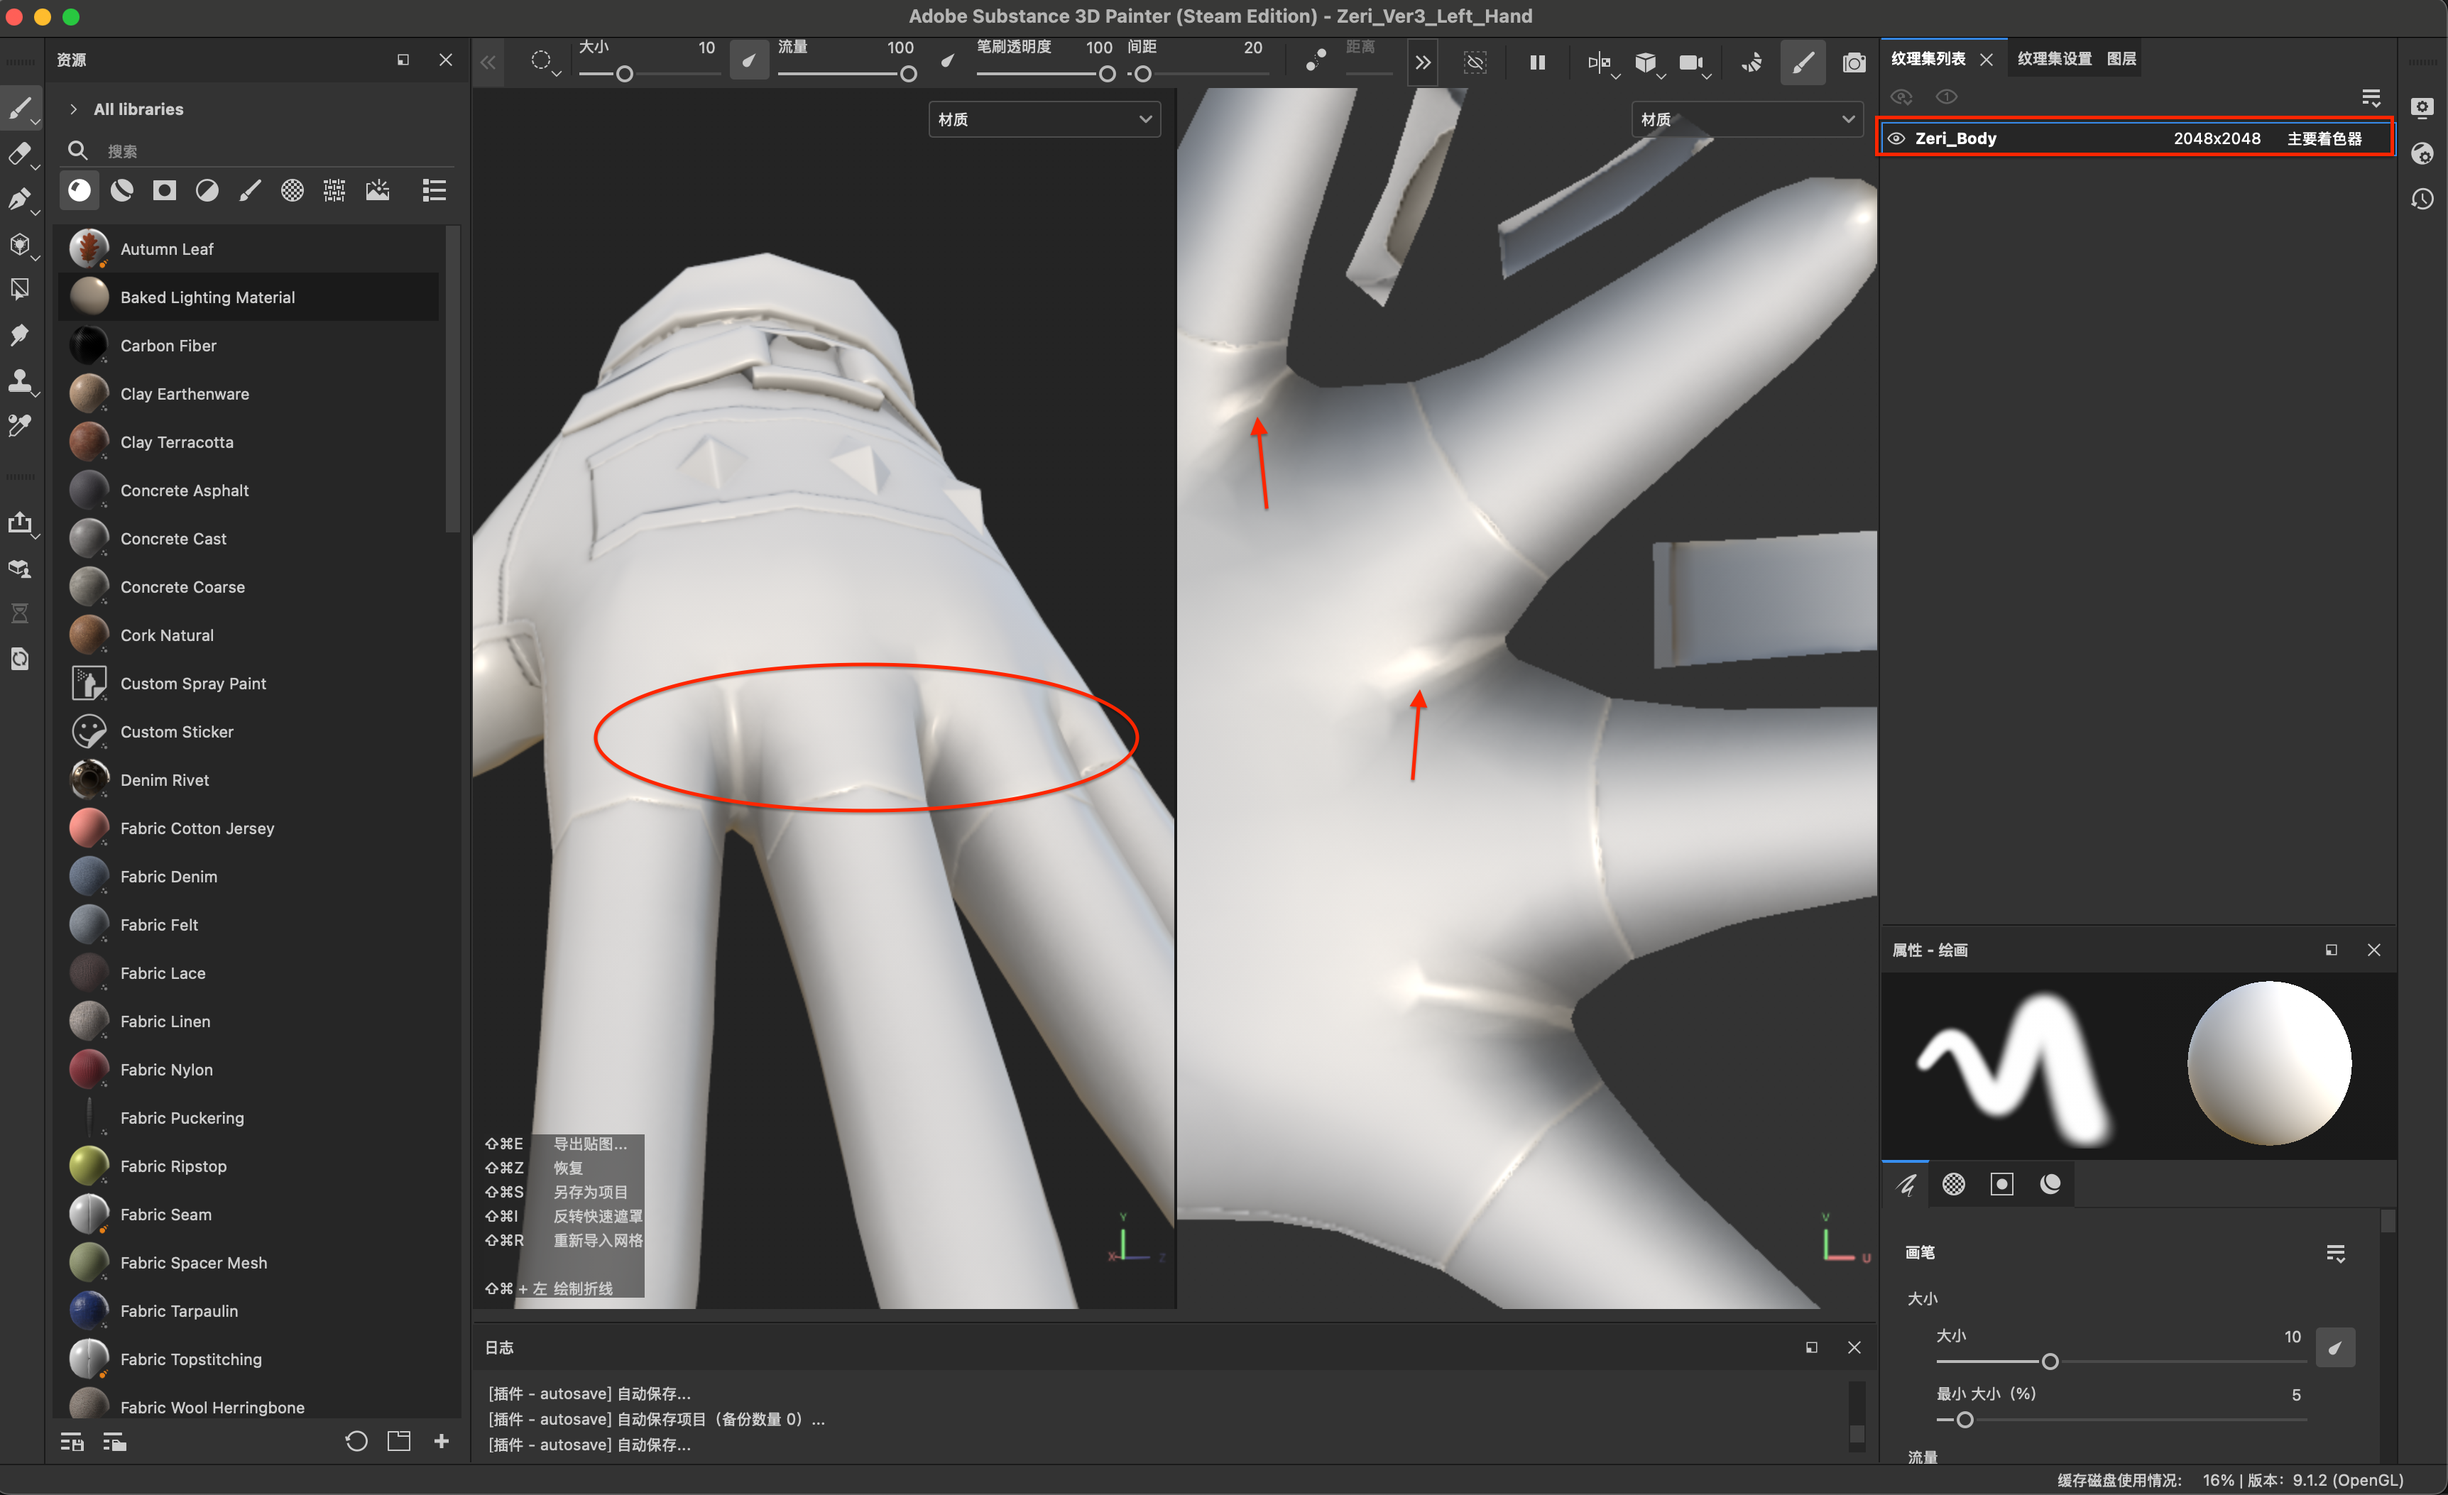
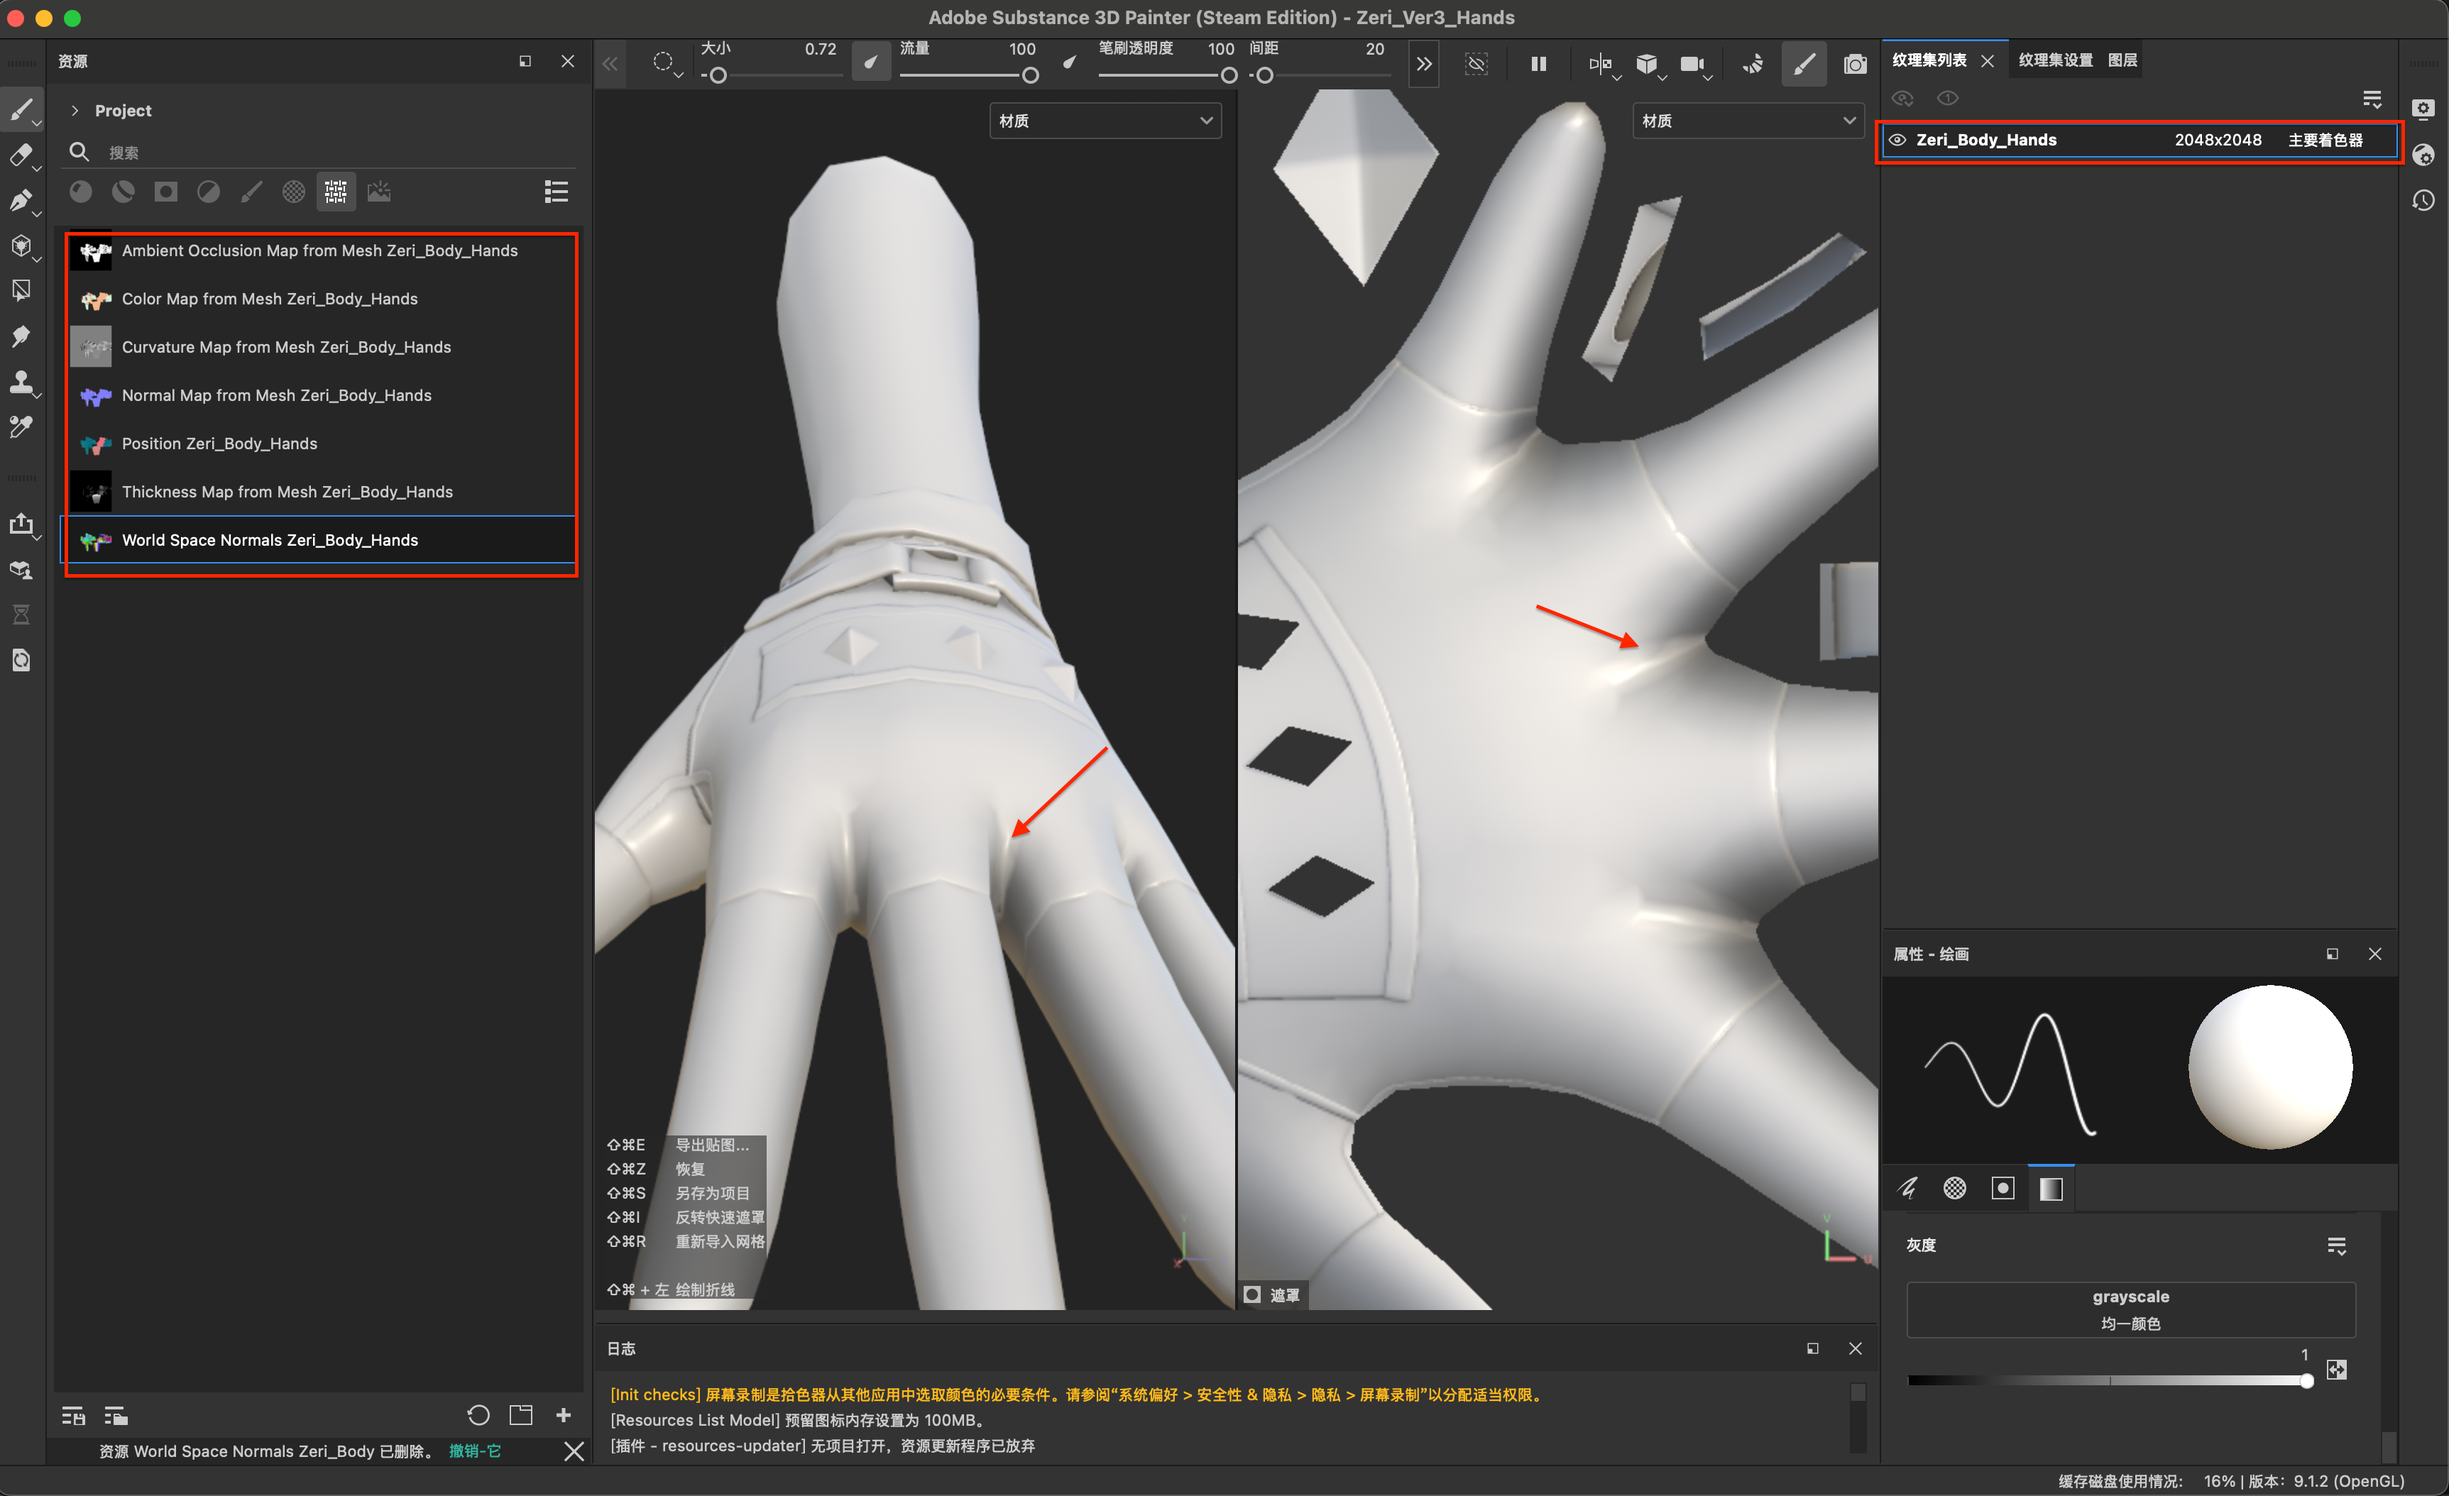
update substance_painter.md

diff --git a/readme/substance_painter.md b/readme/substance_painter.md
@@ -38,12 +38,38 @@
 ![image](../images/substance_painter/High_And_Low_Bake_Settings04.png)
 ![image](../images/substance_painter/High_And_Low_Bake_Settings05.png)
 
-### 单独烘焙某个部位
-* 问题描述：在烘焙人物模型时，由于只给了低模三个材质：头发、脸部和身体；导致身体这一个“纹理集”包含了太多“部件”，从而在设置`封套`的“最大前部距离”时，出现“水桶效应”，必须扩大到完全去除红色的“匹配错误”，从而导致手部区域的“最大前部距离”不是最佳值。进而导致烘焙结果出错：手指沟区域法线和AO均出错。
+### *兼顾工作流的“分部件烘焙”及合并贴图
+* 问题描述：在烘焙人物模型时，由于只给了低模三个材质：头发、脸部和身体；导致身体这一个“纹理集”包含了太多“部件”，从而在设置`封套`的“最大前部距离”时，出现“水桶效应”，必须扩大到完全去除红色的“匹配错误”，从而导致手部区域的“最大前部距离”不是最佳值。进而导致烘焙结果出错：手指沟区域法线（Normal）、曲率（Curvature）、厚度（Thickness）以及环境光遮蔽（AO）均出错。
 ![image](../images/substance_painter/Bake_By_Parts01.png)
-* 问题解决：将手部单独设置一个`纹理集`并进行烘焙，即可设置合理的`最大前部距离`，从而得到正确的烘焙结果。但需要注意的是，此时“部件”的UV仍然应该是整个身体UV的“一小部分区域”，最后各个“部件”导出的贴图再经过绘图软件，如Photoshop、Kirta等合并，得到最后的整体贴图。
+* 问题解决：将“手部”单独进行烘焙，即可为“手部”设置合理的`最大前部距离`，从而得到正确的烘焙结果。
 ![image](../images/substance_painter/Bake_By_Parts02.png)
-* 注意：在实际工程时，“部件”的单独烘焙，即给它创建一个单独的`纹理集`，即在低模分配材质时，不再是头发、脸部和身体三个材质，而是有着诸如"手部"，“鞋子”等部件的材质。当然，这些材质只用于烘焙，最终导入Unity引擎时，仍然应该是仅有三个材质（对应三个贴图）。
+* 冲突：为了得到最佳的烘焙效果,自然希望所有"部件"均单独烘焙；因此要求人物模型的每个“部件”都有独立的材质，对应在Substance Painter中拥有独立的`纹理集`，甚至需要为“部件”新建一个工程（经测试，即使“部件”拥有独立的`纹理集`，还是会因为整个工程的其他`纹理集`的影响而导致烘焙结果出现问题，此时就不得不为“部件”单独新建一个工程）。但是渲染代码出于性能考虑，要求`Body`、`Face`和`Hair`三个材质的**每种**贴图只能有一张，而Substance Painter(2023)只能为每一个`纹理集`输出贴图。所以最后为了得到完整贴图，我们不得不将所有“部件”输出的纹理贴图进行合并！而合并依赖于外部的绘图软件（也许Substance Painter有符合需求的插件/脚本，暂不研究），更糟糕的是，如果需要合并的贴图是Substance Painter输出的“自定义光照贴图”，那么RGBA四个通道均需要一次合并！在此过程中，各类贴图在不同软件之间的导入导出是否会错误地修改贴图的格式/数据？而且从美术角度，我们也希望在一个工程中能够看到整体的美术效果！
+* 冲突解决：用“部件”正确的烘焙结果去修复“主工程”错误的烘焙结果，在法线（Normal）、曲率（Curvature）、厚度（Thickness）以及环境光遮蔽（AO）修复完成之后，才进行模型的贴图绘制流程。以法线贴图的修复为例，其他贴图同理：
+  * 从Substance Painter中导出“部件”烘焙得到的正确法线贴图以及“主工程”烘焙得到的错误法线贴图：
+  ![image](../images/substance_painter/Export_Bake_Texture01.png)
+  ![image](../images/substance_painter/Export_Bake_Texture02.png)
+  * 将两张法线贴图导入到Krita中(导入方式使用“拖入法”，并选择`插入为 - 新图层`。如果Krita提示贴图导入格式，一致使用默认)，“主工程”的法线贴图为“底”，“部件”工程的法线贴图用于覆盖“主工程”法线贴图中错误的区域。
+  ![image](../images/substance_painter/Krita_Import_Normal01.png)
+  ![image](../images/substance_painter/Krita_Import_Normal02.png)
+  ![image](../images/substance_painter/Krita_Import_Normal03.png)
+  * 在Substance Painter中制作“遮罩”：新建`图层`，添加黑色遮罩，使用`UV块填充`。
+  ![image](../images/substance_painter/Make_UV_Mask.png)
+  * 将“遮罩”从Substance Painter中导出，并导入到Krita新图层中。
+  ![image](../images/substance_painter/Export_UV_Mask.png)
+  ![image](../images/substance_painter/Krita_Import_UV_Mask.png)
+  * 使用Krita的`相似颜色选区工具`进行选区，右键呼出`选区操作`菜单，使用`变形 -> 扩大选区`来将选区沿UV边沿外扩2像素（也可更多）注意：外扩是必须的，以防止接缝处出现问题。
+  ![image](../images/substance_painter/Krita_Select_Mask01.png)
+  ![image](../images/substance_painter/Krita_Select_Mask02.png)
+  ![image](../images/substance_painter/Krita_Select_Mask03.png)
+  * 在Krita中，切换到“部件”法线贴图图层,右键呼出`选区操作`菜单，使用`复制选区 - 到新图层`将正确的法线贴图区域复制并粘贴到“上层”图层。
+  ![image](../images/substance_painter/Copy_Selected_To_NewLayer01.png)
+  ![image](../images/substance_painter/Copy_Selected_To_NewLayer02.png)
+  * 在Kirta中，打开“最下层”的“主工程”包含错误的法线贴图的图层，以及“上层”的“部件”用于覆盖错误区域的正确法线贴图的图层，使用`文件 -> 导出`来导出最终不包含错误的法线贴图PNG。（导出设置应当最小化更改贴图并保留透明度通道）
+  ![image](../images/substance_painter/Krita_Export_PNG_Settings.png)
+  * 将正确的法线贴图烘焙结果导入Substance Painter中，并替换原有烘焙结果。
+  ![image](../images/substance_painter/Import_Fixed_NormalMap01.png)
+  ![image](../images/substance_painter/Import_Fixed_NormalMap02.png)
+  * 其他类型的贴图同理，在修复完所有“烘焙结果”后，便可按正常流程绘制模型的各类贴图。
 
 ### 烘焙得到的法线贴图存在锯齿状接缝
 * 问题描述：由于Texture空间有限，所以尽可能将镜像的UV进行叠放，例如：左右手臂；但是由于不经意间对手臂拓扑的更改，使得镜像UV不再绝对镜像。（尽管在展UV时，已经将镜像UV的顶点一一对齐，使得镜像UV完全重叠）
